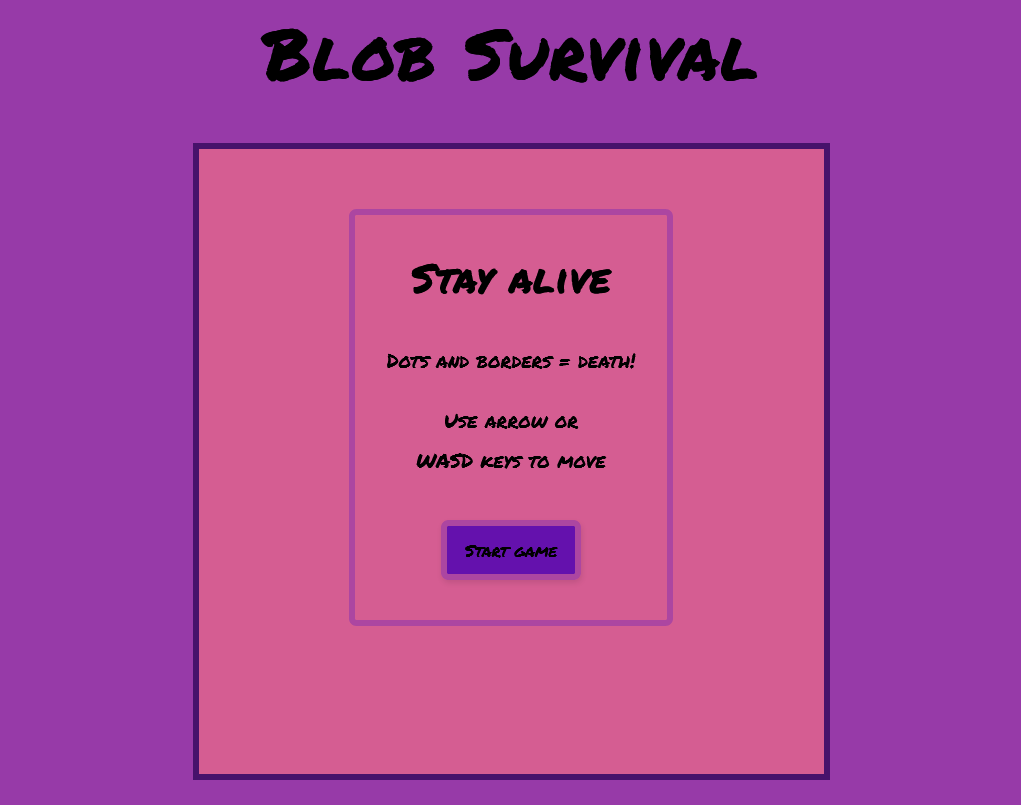
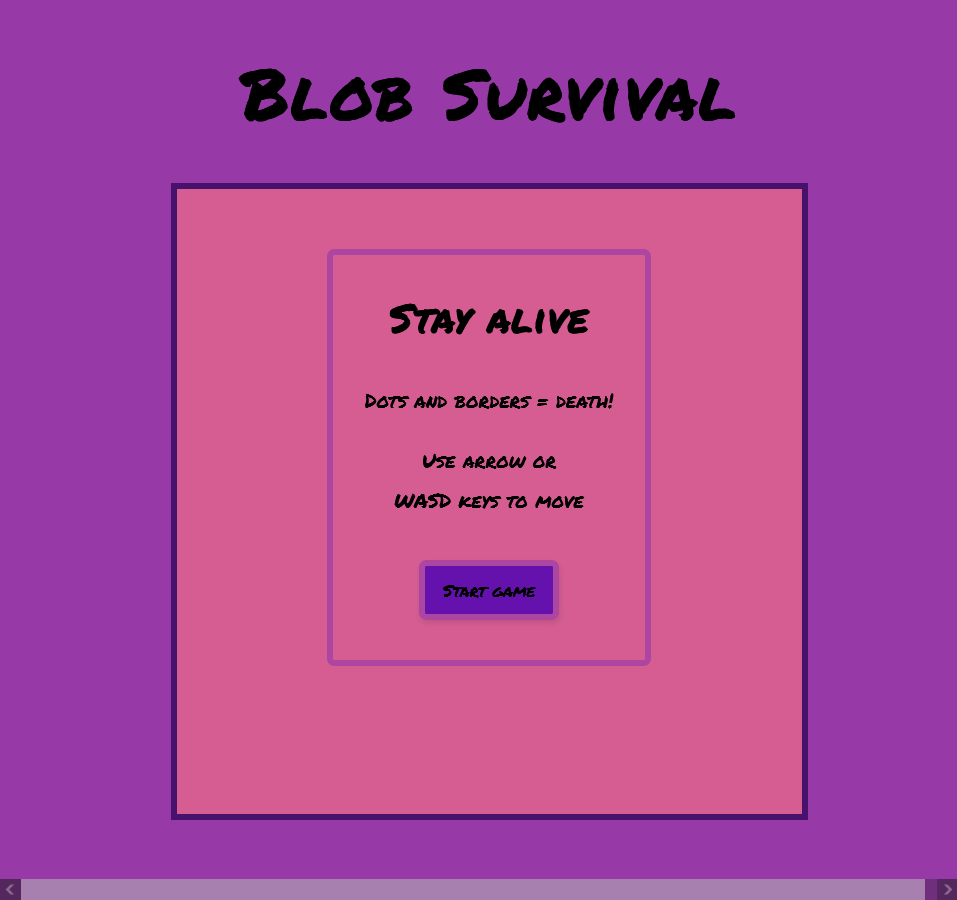
Larfe screen @media queries

Changed region(s): [[0.0, 0.0311, 1.0, 1.0], [0.3333, 0.2484, 0.697, 0.7764], [0.3939, 0.4969, 0.6061, 0.5901]]

diff --git a/resources/styles.css b/resources/styles.css
@@ -84,7 +84,6 @@ header p {
 .banner img {
     width: 100%;
     z-index: 0;
-    margin: 0 2rem;
 }
 
 .sub-head {
@@ -122,16 +121,13 @@ header p {
 
 .box-2 {
     background-color: #CCC5B9;
-    grid-column: 1 / span 12;
     height: 5vw;
     margin-top: 5vw;
     margin-right: 10vw;
 }
 
-/* Hamburger menu */
 
-
-/* Nav menu */
+/* Hamburger nav menu */
 
 #openbtn {
     height: 4rem;
@@ -195,7 +191,7 @@ svg {
   }
 
 
-/* Journey to coding section */
+/* Journey section */
 
 .journey-txt {
     margin: 8vw 2vw 0 2vw;
@@ -255,7 +251,7 @@ svg {
     grid-column: 8 / span 5;
 }
 
-/* Background Section */
+/* Coding Section */
 
 #coding {
     margin: -10vw auto;
@@ -274,9 +270,6 @@ svg {
     border-radius: 5px;
 }
 
-#coding h2 {
-    margin-left: 2vw;
-}
 
 .coding-photo {
     grid-column: 7 / span 6;
@@ -286,7 +279,7 @@ svg {
 }
 
 .coding-photo img {
-    width: 20vw;
+    width: 32vw;
     margin: 2vw;
 }
 
@@ -429,9 +422,11 @@ footer a {
     /* Banner and nav */
     
     h1 {
-        font-size: 12vw;
+        font-size: 10vw;
     }
-    
+    header p {
+        font-size: 3.5vw;
+    }
     .box-2 {
         width: 75%;
     }
@@ -448,6 +443,10 @@ footer a {
 
     #openbtn {
         top: 15vw;
+    }
+
+    #menu a {
+        font-size: 6vw;
     }
 
     /* Journey section */
@@ -540,4 +539,94 @@ footer a {
 
 
     
+}
+
+@media screen and (min-width: 900px) {
+
+    /* Header and banner */
+
+    h1 {
+        font-size: 5vw;
+    }
+
+    h2 {
+        font-size: 4vw;
+    }
+
+    header p {
+        font-size: 2vw;
+    }
+
+    .box-2{
+        height: 2vw;
+        margin-top: 1vw;
+        margin-right: 20vw;
+    }
+
+    .banner {
+        height: 35vw;
+        margin-top: 2vw;
+    }
+
+    .sub-head {
+        margin-left: 12vw;
+
+    }
+
+    .sub-head h2 {
+        margin-left: 1vw;
+        font-size: 6vw;
+
+    }
+
+    .inset h2 {
+        margin-left: 1vw;
+        font-size: 6vw;
+
+    }
+
+    .box-1 {
+        height: 5vw;
+        width: 30vw;
+        top: 13vw;
+        left: 30vw;
+        transform: rotate(-6deg);
+    }
+
+    .box-1 p {
+        font-size: 2vw;
+    }
+
+    /* Hamburher menu */
+
+    #openbtn {
+        height: 6rem;
+        width: 6rem;
+        top: 2vw;
+        right: 6vw;
+    }
+    
+    #menu a {
+        font-size: 3vw;
+    }
+
+     #menu a:active{
+        font-size: 3.25vw;
+    }
+
+    /* Journer section */
+
+    .journey-txt h2 {
+        margin-left: 10vw;
+    }
+
+    .journey-txt p {
+        padding: 2vw 10vw;
+    }
+
+    /* Coding section */
+
+    .coding-photo img {
+        width: 20vw;
+    }
 }

diff --git a/index.html b/index.html
@@ -32,7 +32,7 @@
                     <li><a href="javascript:void(0)" id="closebtn">&times;</a></li>
                     <li><a href="#journey">Background</a></li>
                     <li><a href="#coding">Why Coding?</a></li>
-                    <li><a href="#examples">Examples of work</a></li>
+                    <li><a href="#examples">Current Work</a></li>
                 </ul>
             </div>
         </nav>
@@ -49,7 +49,7 @@
             </div>
         </div>
         <div class="box-1">
-            <p>A coding journey</p>
+            <p>Art and Coding</p>
         </div>
     </div>
 

diff --git a/main.js b/main.js
@@ -9,11 +9,18 @@ const closeBtn = document.getElementById('closebtn');
 
 
 function openNav() {
-    menu.style.width = '45%';
+
+    if (window.innerWidth < 550) {
+        menu.style.width = '50%';
+    } else {
+        menu.style.width = '30%';
+
+    }
     openBtn.setAttribute('aria-expanded', true);
   }
   
   function closeNav() {
+    
     menu.style.width = '0';
     openBtn.setAttribute('aria-expanded', false);
   }
